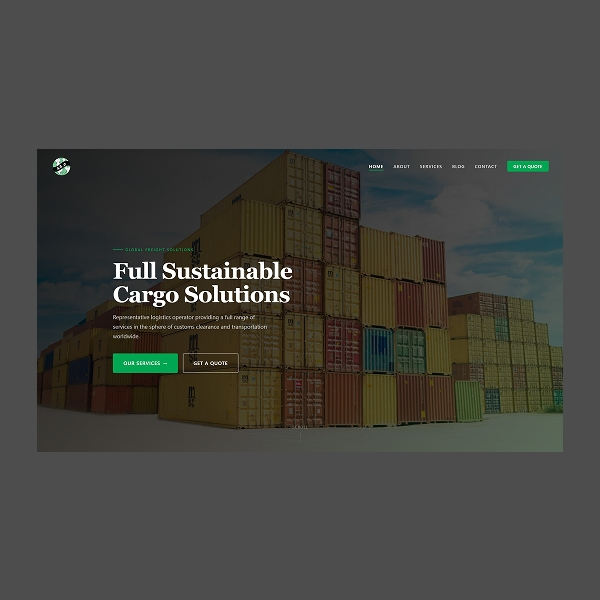
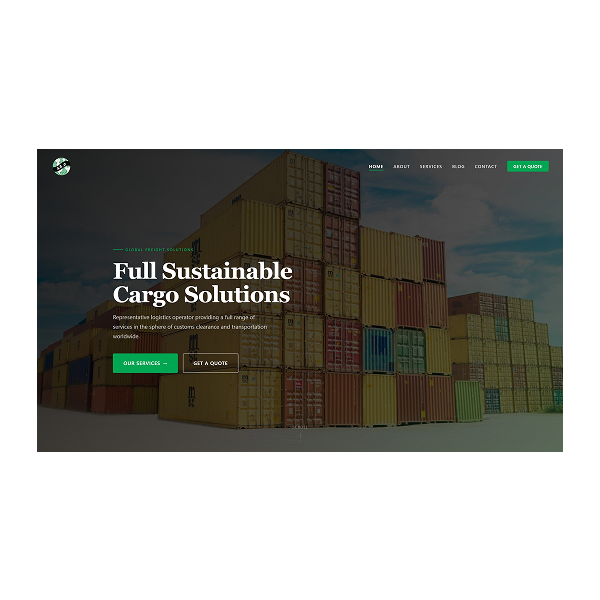
portfolio redesign

diff --git a/src/App.css b/src/App.css
@@ -756,44 +756,50 @@ body.nav-active {
 /*-----------------------------------*\
   #PORTFOLIO
 \*-----------------------------------*/
-
 .portfolio-card {
   position: relative;
-  background-color: transparent;
-  transition: var(--cubic-ease-out);
+  background-color: var(--white);
+  height: 100%;
+  padding: 40px;
+  transition: var(--transition-2);
+}
+
+.portfolio-card .card-banner {
+  background-color: var(--white_a5);
 }
 
 .portfolio-card .img-cover {
   transition: var(--cubic-ease-out);
 }
 
-.portfolio-card .card-content {
-  position: absolute;
-  top: 50%;
-  left: 50%;
-  text-align: center;
-  width: 100%;
-  transform: translate(-55%, -50%);
-  opacity: 0;
-  transition: var(--cubic-ease-out);
-  z-index: 1;
+.portfolio-card .card-title {
+  color: var(--content-color, var(--raisin-black));
+  margin-block: 20px;
 }
 
 .portfolio-card .card-text {
-  color: var(--white);
+  color: var(--content-color);
+}
+
+.portfolio-card .card-number {
+  margin-inline-start: auto;
+  font-weight: var(--fw-800);
+  line-height: 0.6;
+  max-width: max-content;
+  margin-block-start: 32px;
+  -webkit-text-stroke: 1px var(--content-color, var(--black));
+  -webkit-text-fill-color: transparent;
+  opacity: 0.3;
+}
+
+.portfolio-card:is(:hover, :focus-within) {
+  background-color: var(--raisin-black);
+  --content-color: var(--white);
 }
 
 .portfolio-card:is(:hover, :focus-within) .img-cover {
-  opacity: 0.1;
-  transform: scale(0.95);
+  transform: scale(1.05);
 }
-
-.portfolio-card:is(:hover, :focus-within) .card-content {
-  transform: translate(-50%, -50%);
-  opacity: 1;
-}
-
-
 
 
 
@@ -1159,3 +1165,6 @@ body.nav-active {
     display: none;
   }
 }
+
+
+

diff --git a/src/components/Portfolio.jsx b/src/components/Portfolio.jsx
@@ -29,23 +29,26 @@ function Portfolio() {
         <ul {...trackProps}>
           {portfolioData.map((item, index) => (
             <li className="slider-item" key={`${item.title}-${index}`}>
-              <div
-                className="portfolio-card img-holder"
-                style={{ "--width": 600, "--height": 600 }}
-              >
-                <img
-                  src={item.image}
-                  width="600"
-                  height="600"
-                  loading="lazy"
-                  alt={item.title}
-                  className="img-cover"
-                />
-
-                <div className="card-content">
-                  <h3 className="h3 card-title">{item.title}</h3>
-                  <p className="card-text">{item.category}</p>
+              <div className="portfolio-card">
+                <div
+                  className="card-banner img-holder"
+                  style={{ "--width": 4, "--height": 3 }}
+                >
+                  <img
+                    src={item.image}
+                    width="600"
+                    height="450"
+                    loading="lazy"
+                    alt={item.title}
+                    className="img-cover"
+                  />
                 </div>
+
+                <h3 className="h3 card-title">{item.title}</h3>
+                <p className="card-text">{item.category}</p>
+                <span className="text-lg card-number">
+                  {String(index + 1).padStart(2, "0")}
+                </span>
 
                 <a
                   href={item.url}
